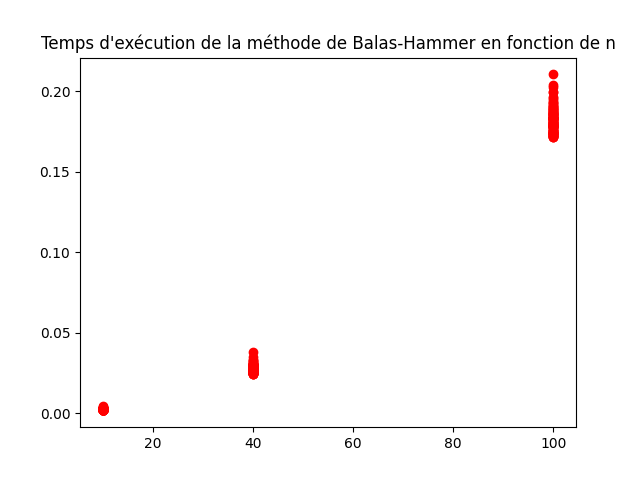
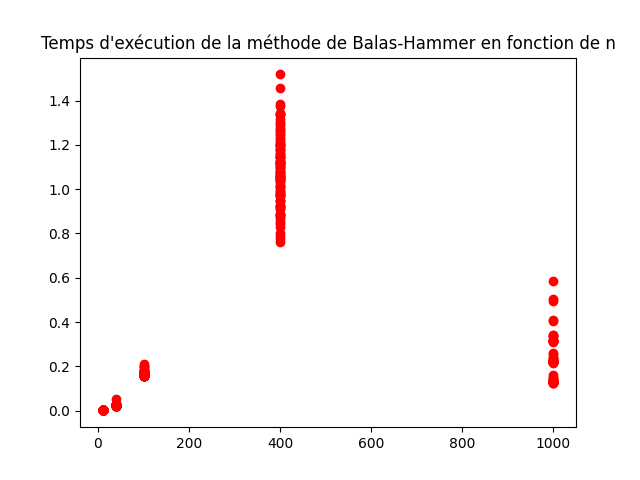
Fixed cycle

diff --git a/fonctions.py b/fonctions.py
@@ -389,13 +389,17 @@ def maximisation(proposition_balas_hammer, graphe, arete, cycle):
     # Le cycle recu est ['S1', 'L1', 'S3', 'L3', 'S1'] il faut extraire les indices
     if cycle:
         cycle_indices = [int(s[1:]) - 1 for s in cycle]
+        print(cycle_indices)
         for k in range(len(cycle_indices) - 1):
-            source, client = cycle_indices[k + 1], cycle_indices[k]
-            print(f'Sommet en cours : S{source+1} - L{client+1}')
+            #source, client = cycle_indices[k + 1], cycle_indices[k]
             if k % 2 == 0:
+                source, client = cycle_indices[k + 1], cycle_indices[k]
+                print(f'Arete en cours : S{source+1} - L{client+1}')
                 proposition_balas_hammer[client, source] -= quantite
                 print(f"Quantité ajoutée : {quantite}")
             else:
+                client, source = cycle_indices[k + 1], cycle_indices[k]
+                print(f'Arete en cours : L{client+1} - S{source+1}')
                 proposition_balas_hammer[client, source] += quantite
                 print(f"Quantité retirée : {quantite}")
 

diff --git a/complexite.py b/complexite.py
@@ -8,7 +8,7 @@ import matplotlib.pyplot as plt
 
 # LA FONCTION TIME.CLOCK() EST DEPRECIEE, UTILISER TIME.PERF_COUNTER() A LA PLACE
 
-valeurs_n_test = [10, 40, 10**2] #4*10**2] #, 10**3, 4*10**3, 10**4]
+valeurs_n_test = [10, 40, 10**2, 4*10**2, 10**3, 4*10**3 ] #, 10**4]
 
 def generer_matrice_couts(n):
     # Génère une matrice de coûts de taille n x n
